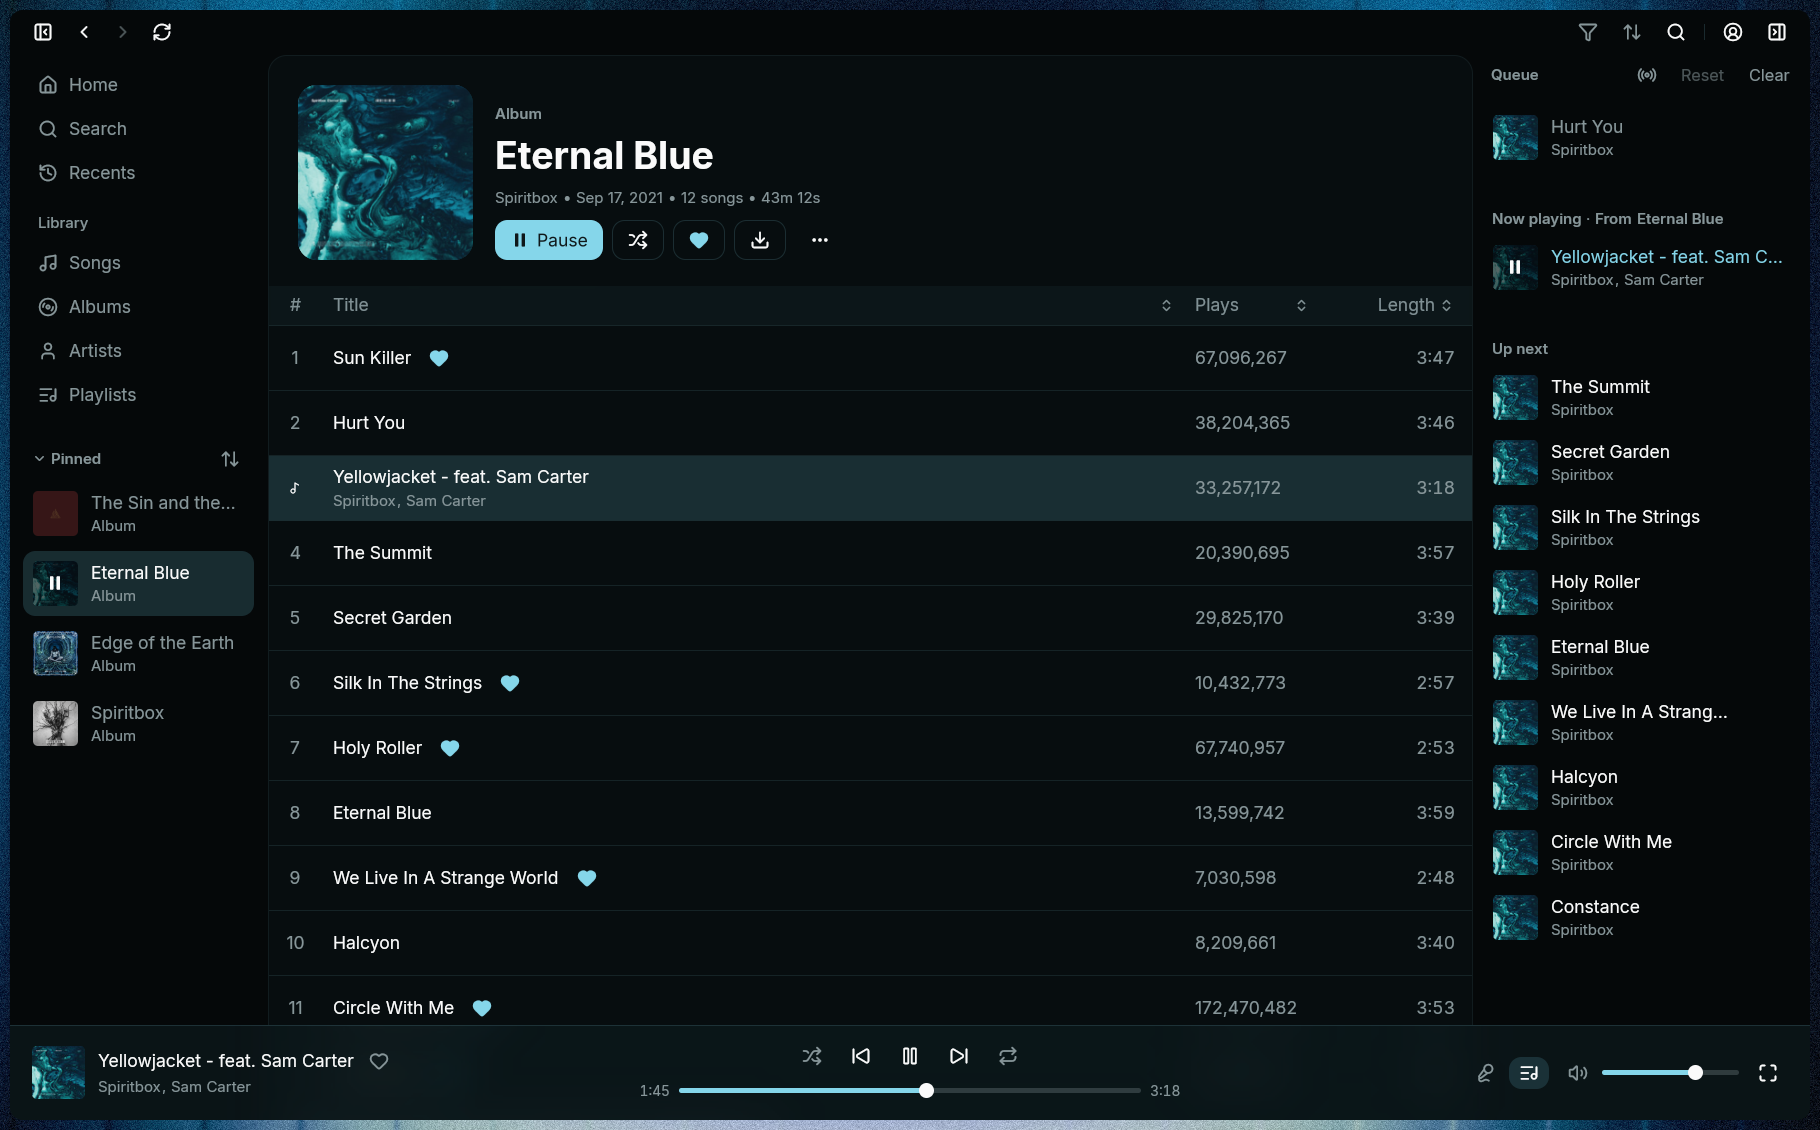
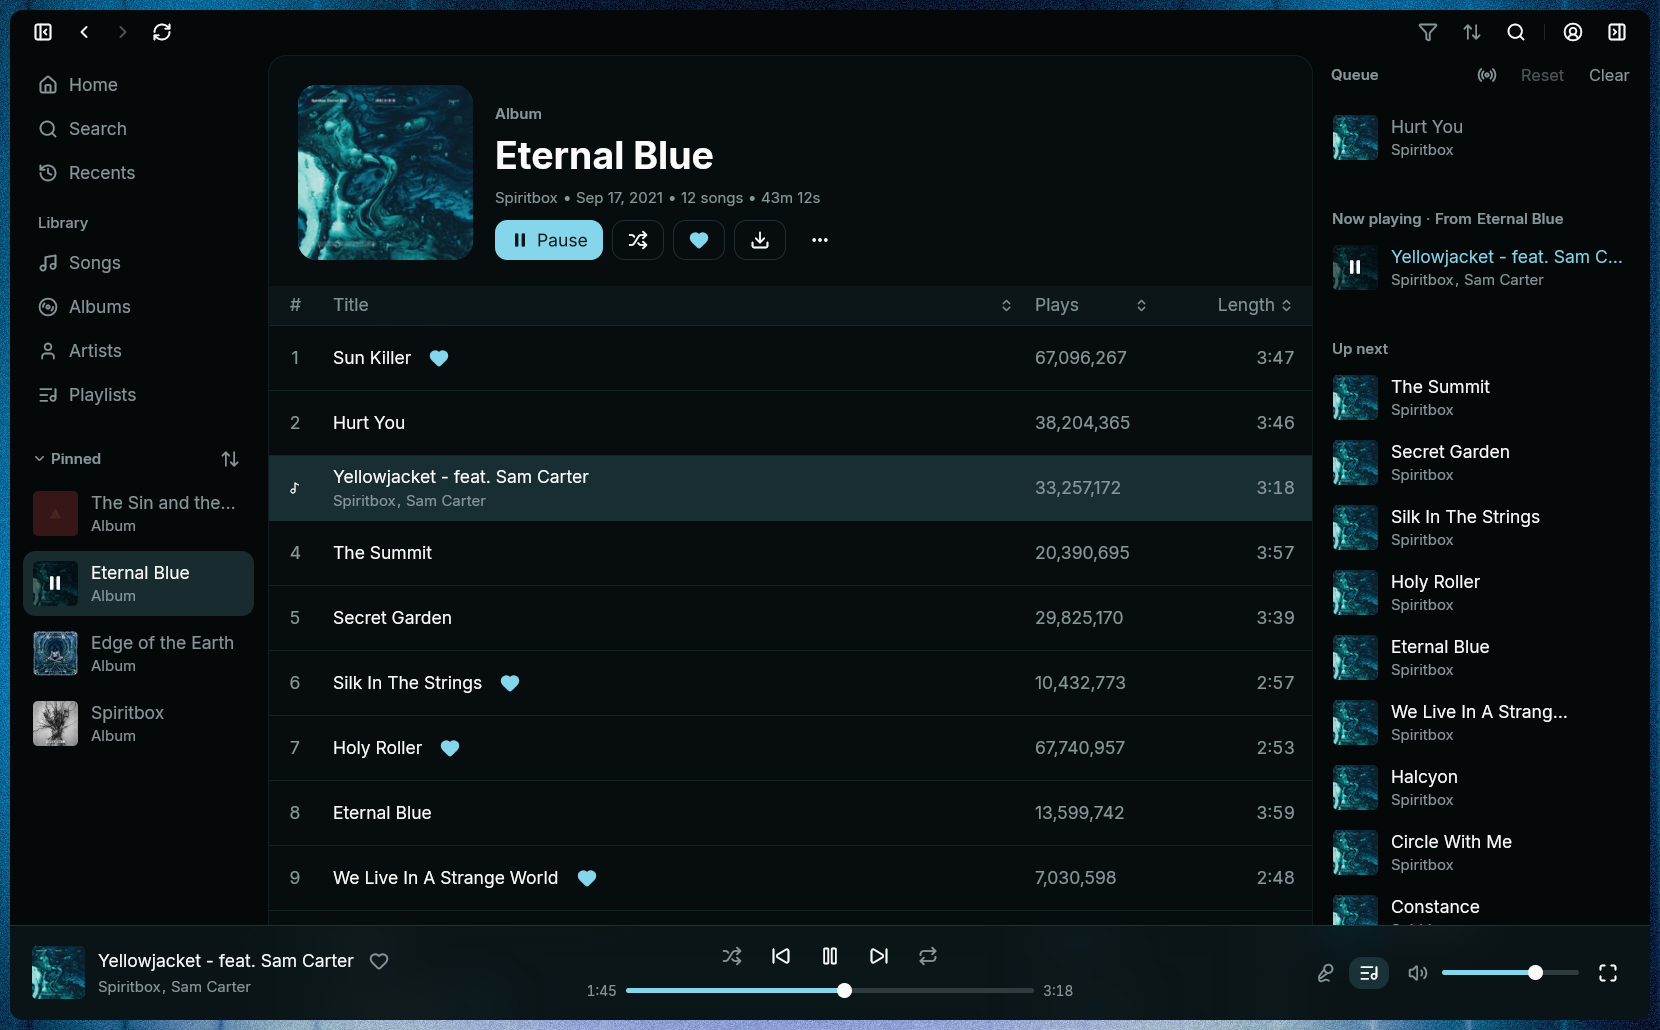
docs: shrink the readme screenshots

diff --git a/README.md b/README.md
@@ -31,15 +31,15 @@ Stream from your favorite services and play local files — all in one **native*
     <table>
       <tr>
         <td colspan="2">
-          <img width="1820" height="1130" alt="Fullscreen lyrics of The Emptiness Machine" src="./.github/screenshots/now-playing.png" />
+          <img width="1660" height="1030" alt="Fullscreen lyrics of The Emptiness Machine" src="./.github/screenshots/now-playing.png" />
         </td>
       </tr>
       <tr>
         <td width="50%">
-          <img width="1820" height="1130" alt="The Eternal Blue album with the queue open" src="./.github/screenshots/album.png" />
+          <img width="1660" height="1030" alt="The Eternal Blue album with the queue open" src="./.github/screenshots/album.png" />
         </td>
         <td width="50%">
-          <img width="1820" height="1130" alt="The Kinokoteikoku artist page with romanized lyrics" src="./.github/screenshots/artist.png" />
+          <img width="1660" height="1030" alt="The Kinokoteikoku artist page with romanized lyrics" src="./.github/screenshots/artist.png" />
         </td>
       </tr>
     </table>
